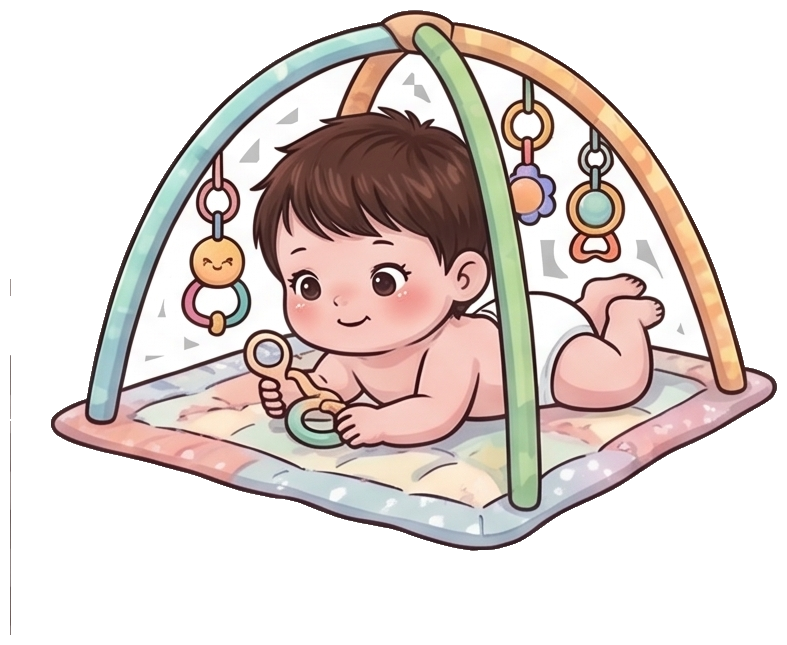
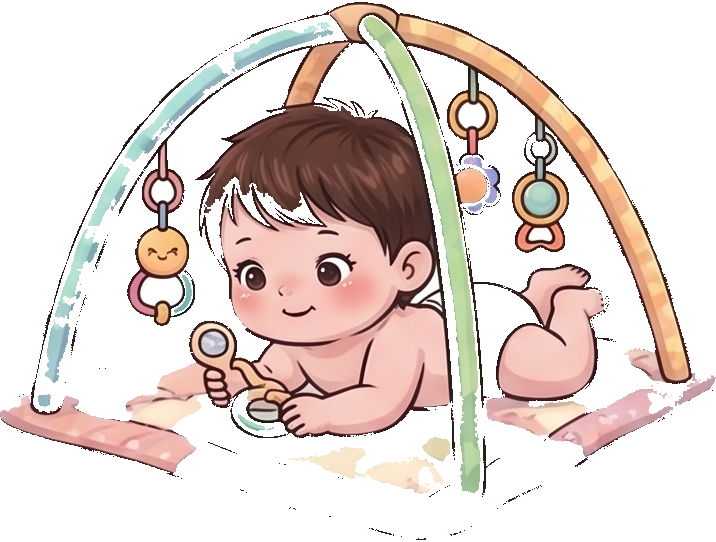
Update homepage copy, illustrations, and add TODO
- Greeting and player name combined on one line, same size/weight
- Remove 'Answer the daily question' subheading
- Hide 'Today's question is waiting' pill for first-time players
- Fix 'Today's question complete' → 'Today's question is complete'
- Remove emoji and 'Today's video' title from completed state
- Regenerate 6 new illustrations with improved background removal
- Add Known Bugs section to TODO.md

diff --git a/app/play/page.tsx b/app/play/page.tsx
@@ -78,12 +78,8 @@ export default function PlayPage() {
             className="w-28 h-28 mx-auto object-contain"
           />
           <p className="text-sm text-brand-400">
-            {isNight ? "Good evening" : "Welcome back"},
+            {isNight ? "Good evening" : "Welcome back"}, {player.name}
           </p>
-          {isNight && !completed && (
-            <p className="text-sm text-brand-400">Answer the daily question to reveal a new moment.</p>
-          )}
-          <h1 className="text-2xl font-bold text-brand-700">{player.name}</h1>
           {player.current_streak > 1 && (
             <p className="text-sm text-blush-400 font-medium flex items-center justify-center gap-1">
               <FlameIcon className="w-4 h-4" />
@@ -93,26 +89,21 @@ export default function PlayPage() {
         </div>
 
         {/* Daily status pill */}
-        <div className={`rounded-2xl px-4 py-3 text-sm text-center font-medium ${
-          completed
-            ? "bg-brand-50 border border-brand-200 text-brand-600"
-            : "text-brand-400"
-        }`}>
-          {completed ? "✓ Today's question complete" : "Today's question is waiting for you"}
-        </div>
+        {(completed || player.total_points > 0 || player.current_streak > 0) && (
+          <div className={`rounded-2xl px-4 py-3 text-sm text-center font-medium ${
+            completed
+              ? "bg-brand-50 border border-brand-200 text-brand-600"
+              : "text-brand-400"
+          }`}>
+            {completed ? "✓ Today's question is complete" : "Today's question is waiting for you"}
+          </div>
+        )}
 
         {completed ? (
           /* ── Completed state ── */
           <div className="space-y-4">
             {media_url ? (
               <>
-                <div className="text-center space-y-1">
-                  <p className="text-2xl">🎀</p>
-                  <p className="font-semibold text-brand-700">
-                    {media_type === "photo" ? "Today's memory" : "Today's video"}
-                  </p>
-                </div>
-
                 {media_type === "video" ? (
                   <video
                     src={media_url}

diff --git a/scripts/cut-illustrations.py b/scripts/cut-illustrations.py
@@ -45,11 +45,12 @@ def remove_bg_padded(cell_img: Image.Image, tolerance: int = 30) -> Image.Image:
     while queue:
         x, y = queue.popleft()
         r, g, b, a = data[x, y]
+        mean_v = (int(r) + int(g) + int(b)) // 3
+        max_diff = max(abs(int(r)-int(g)), abs(int(g)-int(b)), abs(int(r)-int(b)))
         is_bg = (
             a < 10 or
-            # near-neutral grey or white (background colours in these illustrations)
-            (r > 150 and g > 150 and b > 150 and
-             abs(int(r)-int(g)) < 35 and abs(int(g)-int(b)) < 35)
+            # near-neutral: catches white, grey, and the warm-grey sticker outlines
+            (mean_v > 40 and max_diff < 40)
         )
         if is_bg:
             data[x, y] = (r, g, b, 0)
@@ -87,6 +88,33 @@ def remove_title_islands(cell_img: Image.Image, title_zone_rows: int = 320) -> I
 
     return Image.fromarray(result)
 
+def strip_isolated_edge_lines(img: Image.Image) -> Image.Image:
+    """
+    Remove any 1-pixel-wide opaque stripe on the four edges where the adjacent
+    interior column/row is fully transparent.  Catches sticker outline remnants
+    that survive background removal because their colour isn't near-neutral.
+    """
+    arr = np.array(img).copy()
+    h, w = arr.shape[:2]
+
+    def col_opaque(c): return (arr[:, c, 3] > 10).any()
+    def row_opaque(r): return (arr[r, :, 3] > 10).any()
+
+    # Left edge
+    if col_opaque(0) and not col_opaque(1):
+        arr[:, 0, 3] = 0
+    # Right edge
+    if col_opaque(w - 1) and not col_opaque(w - 2):
+        arr[:, w - 1, 3] = 0
+    # Top edge
+    if row_opaque(0) and not row_opaque(1):
+        arr[0, :, 3] = 0
+    # Bottom edge
+    if row_opaque(h - 1) and not row_opaque(h - 2):
+        arr[h - 1, :, 3] = 0
+
+    return Image.fromarray(arr)
+
 def tight_crop(img: Image.Image) -> Image.Image:
     arr = np.array(img)
     alpha = arr[:,:,3]
@@ -96,9 +124,9 @@ def tight_crop(img: Image.Image) -> Image.Image:
         return img
     rmin, rmax = np.where(rows)[0][[0,-1]]
     cmin, cmax = np.where(cols)[0][[0,-1]]
-    m = 10
-    rmin = max(0, rmin-m); rmax = min(img.height-1, rmax+m)
-    cmin = max(0, cmin-m); cmax = min(img.width-1, cmax+m)
+    # No side margin — crop flush to illustration edge so no thin lines appear
+    rmin = max(0, rmin - 2); rmax = min(img.height-1, rmax + 2)
+    cmin = max(0, cmin);     cmax = min(img.width-1, cmax)
     return img.crop((cmin, rmin, cmax+1, rmax+1))
 
 img = Image.open(src).convert("RGBA")
@@ -109,6 +137,8 @@ for name, (x1, y1, x2, y2) in cells.items():
     if name in TOP_ROW:
         cell = remove_title_islands(cell, title_zone_rows=320)
     cell = tight_crop(cell)
+    cell = strip_isolated_edge_lines(cell)
+    cell = tight_crop(cell)  # re-crop after stripping
     out_path = os.path.join(out_dir, f"adelina-{name}.png")
     cell.save(out_path)
     print(f"  ✓ {name}  ({cell.size[0]}x{cell.size[1]}px)")

diff --git a/TODO.md b/TODO.md
@@ -82,6 +82,12 @@ Use these tags on both trivia questions and uploaded videos to power the tag-mat
 
 ---
 
+## Known Bugs
+- [ ] **Grey line on walking + play-gym illustrations**: Sticker's warm-grey outline (~RGB 80-140) survives flood-fill background removal and appears as a grey line on the left edge. Many approaches tried (threshold tuning, strip_isolated_edge_lines, tight_crop). Try morphological erosion or a second-pass flood fill seeded from already-transparent pixels.
+- [ ] **MC answer options not saving in /admin/questions**: Edits return 200 but changes don't persist. Root cause unknown.
+
+---
+
 ## Deployment
 - [ ] Set up Railway with persistent volume for /public/media
 - [ ] Configure Railway environment variables
